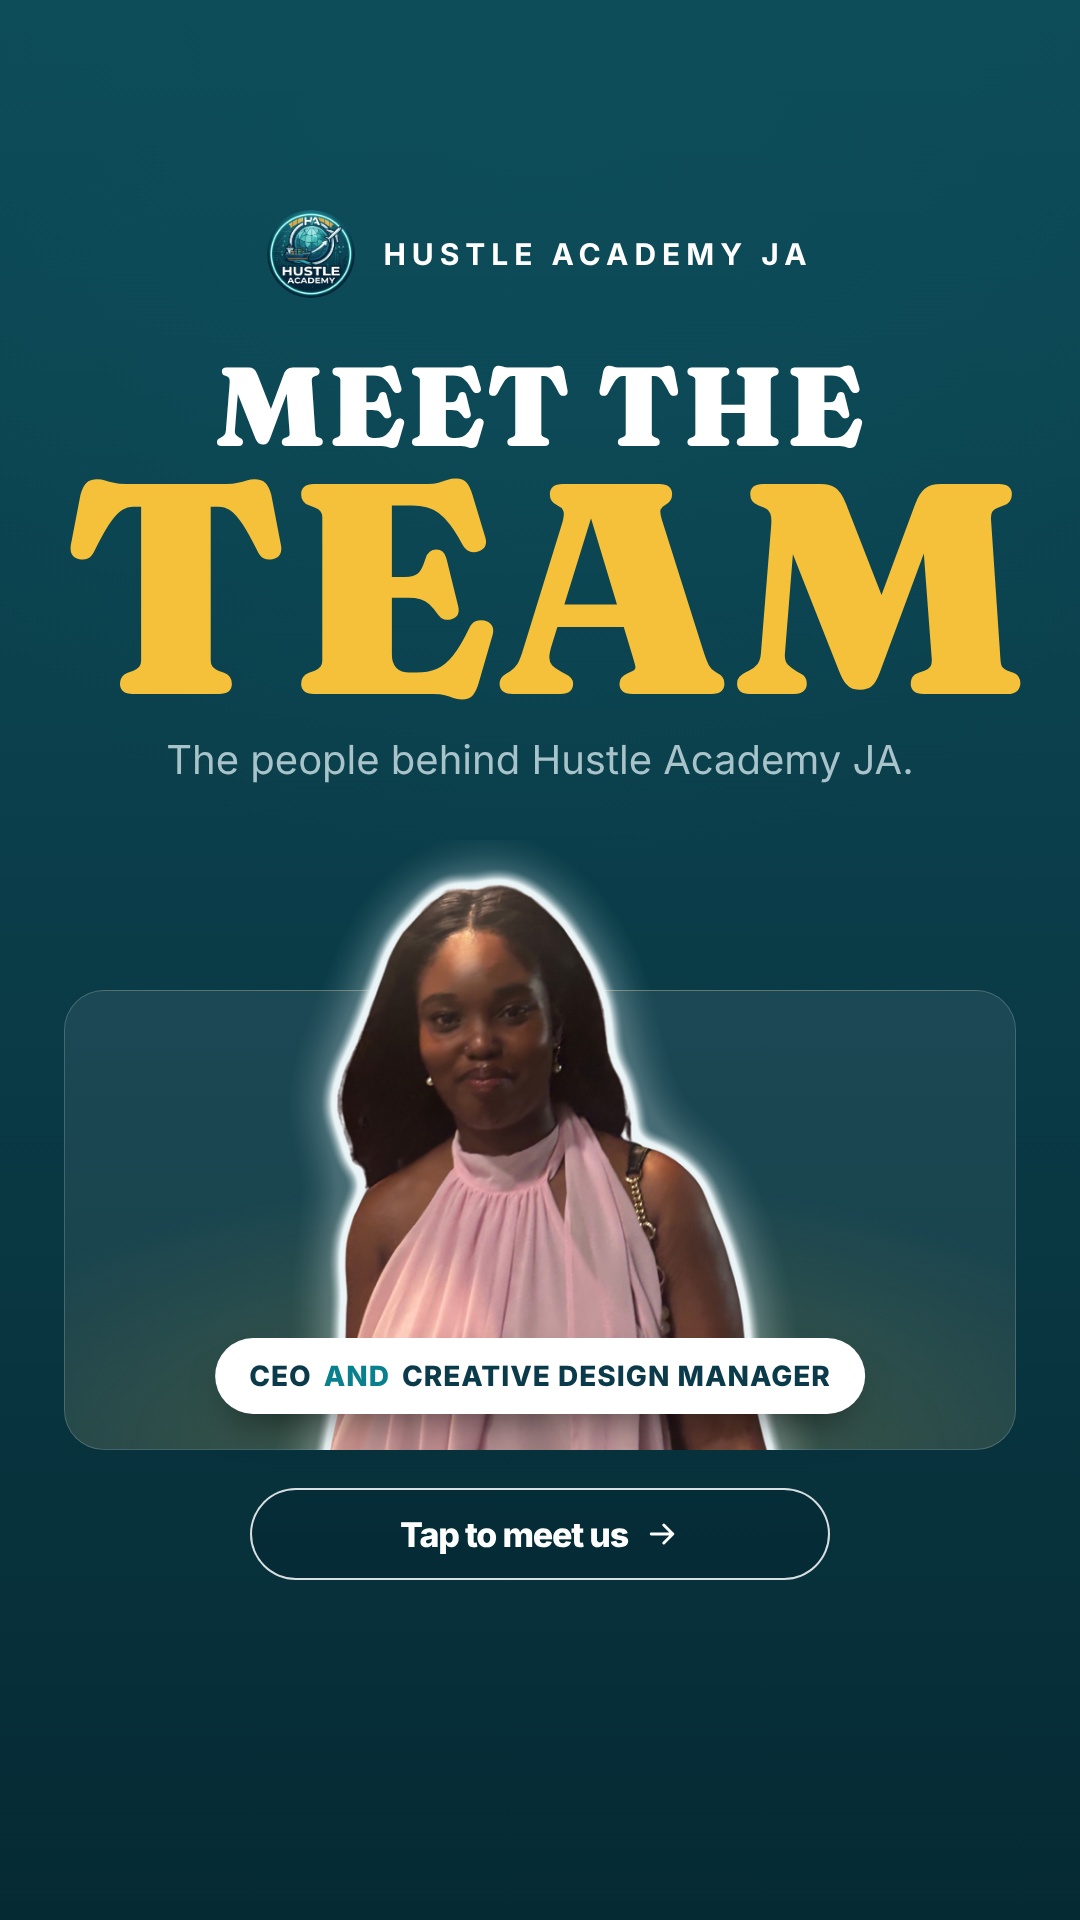
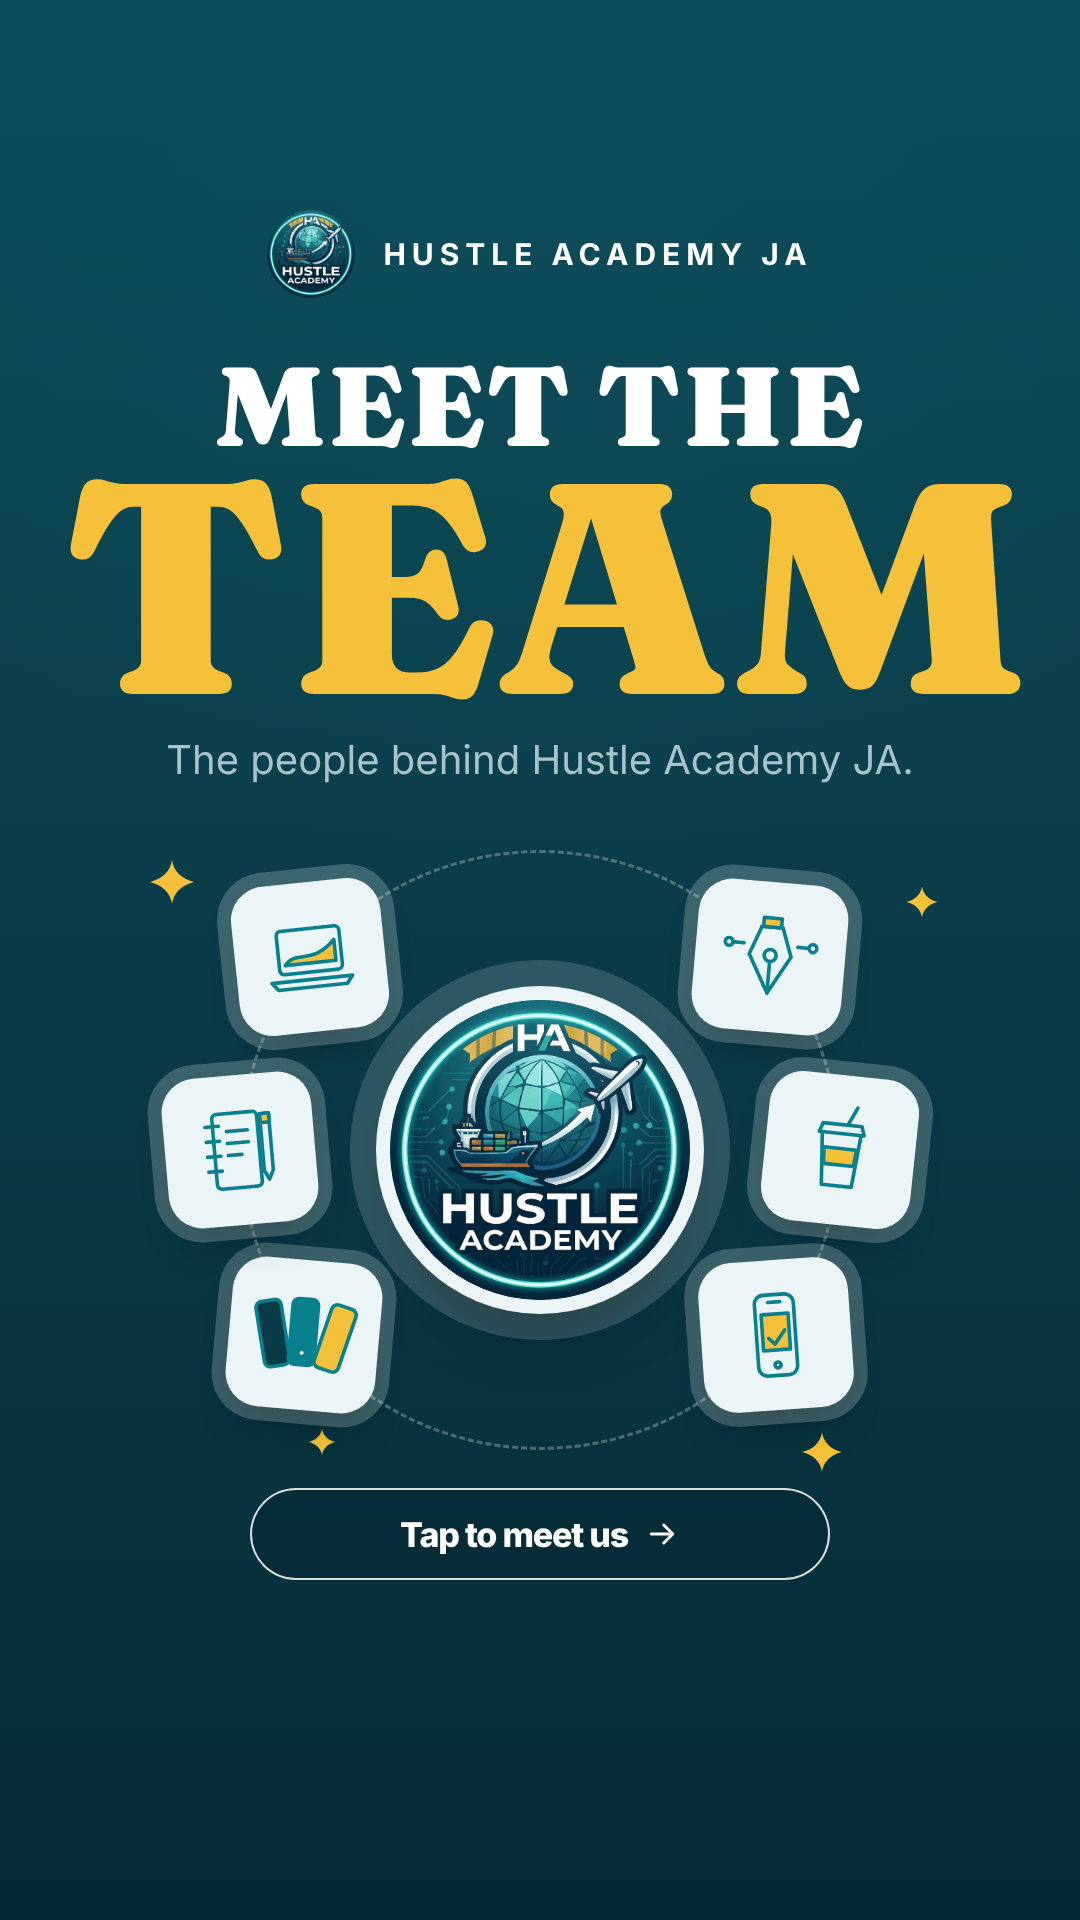
Make Meet the Team a people-free poster
Replaces the photo card with the badge at the centre of an orbit of
brand stickers, keeping the headline and caption.

Claude-Session: https://claude.ai/code/session_018eZHeRSxBT74LEjA8yCoTu

Changed region(s): [[0.0611, 0.4375, 0.9472, 0.7812], [0.1528, 0.4375, 0.1833, 0.4688]]

diff --git a/design/stories.html b/design/stories.html
@@ -63,24 +63,6 @@
   .button svg { width: 36px; height: 36px; }
   .button svg path { fill: none; stroke: currentColor; stroke-width: 3.2; stroke-linecap: round; stroke-linejoin: round; }
 
-  /* ---- Meet the team ---- */
-  .team { position: absolute; left: 64px; right: 64px; top: 840px; bottom: 470px; display: grid; gap: 28px; }
-  .member { position: relative; }
-  .member .tile {
-    position: absolute; left: 0; right: 0; bottom: 0; top: 150px; border-radius: 40px;
-    background: radial-gradient(ellipse 70% 60% at 50% 100%, rgba(245, 193, 58, 0.22) 0%, rgba(245, 193, 58, 0) 100%), rgba(255, 255, 255, 0.07);
-    border: 1.5px solid rgba(255, 255, 255, 0.18);
-  }
-  .member .photo { position: absolute; inset: 0; overflow: hidden; border-radius: 0 0 40px 40px; clip-path: inset(-200px 0 0 0 round 0 0 40px 40px); }
-  .member .photo img { position: absolute; left: 50%; top: 0; transform: translateX(-50%); }
-  .member .role {
-    position: absolute; left: 50%; bottom: 36px; transform: translateX(-50%); white-space: nowrap;
-    height: 76px; padding: 0 34px; border-radius: 9999px; display: flex; align-items: center; gap: 12px;
-    background: #ffffff; color: var(--ink-light); font-weight: 800; font-size: 28px; letter-spacing: 1px; text-transform: uppercase;
-    box-shadow: 0 20px 40px -18px rgba(0, 0, 0, 0.6);
-  }
-  .member .role .amp { color: var(--brand-teal); }
-
   /* ---- FAQ tweet cards ---- */
   .threads { position: absolute; left: 64px; right: 64px; display: flex; flex-direction: column; gap: 36px; }
   .thread { display: flex; flex-direction: column; gap: 18px; }
@@ -129,9 +111,41 @@
   .hl-ring svg { width: 300px; height: 300px; }
   .hl-ring svg * { fill: none; stroke: var(--accent); stroke-width: 2.6; stroke-linecap: round; stroke-linejoin: round; }
   .hl-ring svg text { fill: var(--accent); stroke: none; font-family: var(--display); font-weight: 900; font-variation-settings: "opsz" 9; }
+
+  /* ---- Meet the team poster: badge hub with orbiting stickers ---- */
+  .orbit { position: absolute; border-radius: 50%; border: 3px dashed rgba(255, 255, 255, 0.28); }
+  .hub {
+    position: absolute; border-radius: 50%; overflow: hidden;
+    box-shadow: 0 0 0 14px #ebf5f7, 0 0 0 40px rgba(235, 245, 247, 0.16), 0 40px 70px -30px rgba(0, 0, 0, 0.7);
+  }
+  .hub img { width: 100%; height: 100%; display: block; }
+  .sticker {
+    position: absolute; z-index: 2; display: grid; place-items: center;
+    background: var(--surface-light); border-radius: 34px; color: var(--brand-teal);
+    box-shadow: 0 0 0 14px rgba(235, 245, 247, 0.22), 0 24px 40px -22px rgba(0, 0, 0, 0.55);
+  }
+  .sticker svg { width: 64%; height: 64%; overflow: visible; }
+  .sticker svg * { fill: none; stroke: currentColor; stroke-width: 2.4; stroke-linecap: round; stroke-linejoin: round; }
+  .sticker svg .fill-accent { fill: var(--accent); }
+  .sticker svg .fill-teal { fill: var(--brand-teal); }
+  .sticker svg .fill-surface { fill: var(--surface); }
+  .sticker svg .fill-light { fill: #ffffff; }
+  .spark { position: absolute; width: 44px; height: 44px; }
+  .spark path { fill: var(--accent); }
 </style>
 </head>
 <body>
+
+<template id="icons">
+  <!-- Thin outline icons drawn for this post (64x64 grid). -->
+  <svg data-icon="laptop" viewBox="0 0 64 64"><rect x="11" y="13" width="42" height="29" rx="3"/><path class="fill-accent" d="M15 36c8-10 18 2 34-14v14z" stroke="none"/><path d="M5 47h54l-4 5H9z"/></svg>
+  <svg data-icon="coffee" viewBox="0 0 64 64"><path d="M36 14l5-11"/><path d="M19 15h26l2 6H17z"/><path d="M19 21l3 35h20l3-35"/><path class="fill-accent" d="M21.1 31h21.8l-.9 11H22z"/></svg>
+  <svg data-icon="pen" viewBox="0 0 64 64"><path d="M32 56L18 31l7-19h14l7 19z"/><circle cx="32" cy="31" r="4"/><path d="M32 35v21"/><path d="M25 12h14"/><path class="fill-accent" d="M26 6h12v6H26z"/><path d="M6 24h8M50 24h8"/><circle class="fill-light" cx="4" cy="24" r="2.6"/><circle class="fill-light" cx="60" cy="24" r="2.6"/></svg>
+  <svg data-icon="phone" viewBox="0 0 64 64"><rect x="19" y="5" width="26" height="54" rx="6"/><path d="M28 10h8"/><circle cx="32" cy="52" r="2"/><path class="fill-accent" d="M23 18h18v24H23z" stroke="none"/><path d="M27 34l4 4 7-9"/></svg>
+  <svg data-icon="notebook" viewBox="0 0 64 64"><rect x="15" y="7" width="30" height="50" rx="3"/><path d="M10 15h9M10 25h9M10 35h9M10 45h9"/><path d="M24 19h14M24 27h14M24 35h9"/><path d="M53 9v38l-3 6-3-6V9z"/><path class="fill-accent" d="M47 9h6v6h-6z"/></svg>
+  <svg data-icon="swatches" viewBox="0 0 64 64"><rect class="fill-surface" x="8" y="10" width="17" height="44" rx="4" transform="rotate(-14 16 54)"/><rect class="fill-teal" x="23" y="8" width="17" height="44" rx="4"/><rect class="fill-accent" x="39" y="10" width="17" height="44" rx="4" transform="rotate(14 48 54)"/><circle cx="31.5" cy="44" r="2.5" class="fill-light"/></svg>
+  <svg data-icon="parcel" viewBox="0 0 64 64"><path d="M8 20l24-10 24 10v26L32 56 8 46z"/><path d="M8 20l24 10 24-10"/><path d="M32 30v26"/><path class="fill-accent" d="M18 15.8l24 10V34l-6 2.4V28.3L12 18.3z"/></svg>
+</template>
 
 <template id="arrow"><svg viewBox="0 0 40 40"><path d="M8 20h24M22 10l10 10-10 10"/></svg></template>
 <template id="person-icon"><svg viewBox="0 0 40 40"><circle cx="20" cy="15" r="7"/><path d="M7 35c1.5-7 6.5-10 13-10s11.5 3 13 10"/></svg></template>
@@ -146,10 +160,6 @@
   // Services, prices and lines from the design system's offers page (hustleacademyja.com, read 4 Oct 2026). Prices are USD.
   const BRAND = { name: "Hustle Academy JA", handle: "hustleacademyja.com", logo: "../source/ha-badge.png" };
   const ASKER = { name: "You asked", handle: "@follower" };
-
-  const team = [
-    { photo: "../build/ceo-sticker-team.png", height: 880, role: 'CEO <span class="amp">and</span> Creative Design Manager' },
-  ];
 
   const faq = [
     { title: ["Brand", "services"], qa: [
@@ -225,16 +235,23 @@
     const p = post();
     header(p);
     p.insertAdjacentHTML("beforeend", `<div class="title"><h1 class="hook"><span style="font-size:112px;letter-spacing:2px">Meet the</span><span class="accent" style="font-size:300px;line-height:0.84">Team</span></h1><p class="sub">The people behind Hustle Academy JA.</p></div>`);
-    const grid = document.createElement("div");
-    grid.className = "team";
-    grid.style.gridTemplateColumns = `repeat(${Math.min(team.length, 2)}, 1fr)`;
-    for (const m of team) {
+    // Badge at the centre, the team's tools orbiting it.
+    const cx = 540, cy = 1150, r = 300, hub = 300, size = 150;
+    p.insertAdjacentHTML("beforeend", `<div class="orbit" style="left:${cx - r}px;top:${cy - r}px;width:${2 * r}px;height:${2 * r}px"></div>
+      <div class="hub" style="left:${cx - hub / 2}px;top:${cy - hub / 2}px;width:${hub}px;height:${hub}px"><img src="${BRAND.logo}" alt=""></div>`);
+    const icons = document.getElementById("icons").content;
+    const orbit = [["laptop", -140, -6], ["pen", -40, 5], ["coffee", 0, 6], ["phone", 38, -4], ["swatches", 142, 5], ["notebook", 180, -5]];
+    for (const [name, deg, rot] of orbit) {
+      const a = deg * Math.PI / 180, x = cx + r * Math.cos(a), y = cy + r * Math.sin(a);
       const el = document.createElement("div");
-      el.className = "member";
-      el.innerHTML = `<div class="tile"></div><div class="photo"><img src="${m.photo}" alt="" style="height:${team.length > 1 ? m.height * 0.62 : m.height}px"></div><div class="role">${m.role}</div>`;
-      grid.appendChild(el);
+      el.className = "sticker";
+      Object.assign(el.style, { left: x - size / 2 + "px", top: y - size / 2 + "px", width: size + "px", height: size + "px", transform: `rotate(${rot}deg)` });
+      el.appendChild(icons.querySelector(`[data-icon="${name}"]`).cloneNode(true));
+      p.appendChild(el);
     }
-    p.appendChild(grid);
+    const star = '<svg class="spark" viewBox="0 0 44 44" style="left:%Xpx;top:%Ypx;transform:scale(%S)"><path d="M22 0c1.6 11 9.4 18.8 22 22-12.6 3.2-20.4 11-22 22-1.6-11-9.4-18.8-22-22C12.6 18.8 20.4 11 22 0z"/></svg>';
+    for (const [x, y, sc] of [[150, 860, 1], [900, 880, 0.7], [300, 1420, 0.6], [800, 1430, 0.9]])
+      p.insertAdjacentHTML("beforeend", star.replace("%X", x).replace("%Y", y).replace("%S", sc));
     button(p, { kind: "ghost", text: "Tap to meet us" });
   }
 

diff --git a/README.md b/README.md
@@ -32,7 +32,7 @@ and `design/logo-pink-october.html`. The script fails if an FAQ thread runs into
 
 | File | What |
 | --- | --- |
-| `exports/stories/meet-the-team-1080x1920.png` | Meet the Team intro story (add members in the `team` array) |
+| `exports/stories/meet-the-team-1080x1920.png` | Meet the Team poster: headline, caption and badge with orbiting stickers (no photos) |
 | `exports/stories/faq-00-cover-1080x1920.png` … `faq-05-…png` | FAQ cover + 5 tweet-style Q&A stories |
 | `exports/highlight-covers/highlight-cover-{team,faq}-1080x1920.png` | Highlight covers (icon sits in Instagram's centre crop) |
 | `exports/logo/ha-badge-pink-october-transparent-1080.png` | Breast Cancer Awareness Month logo, transparent |
